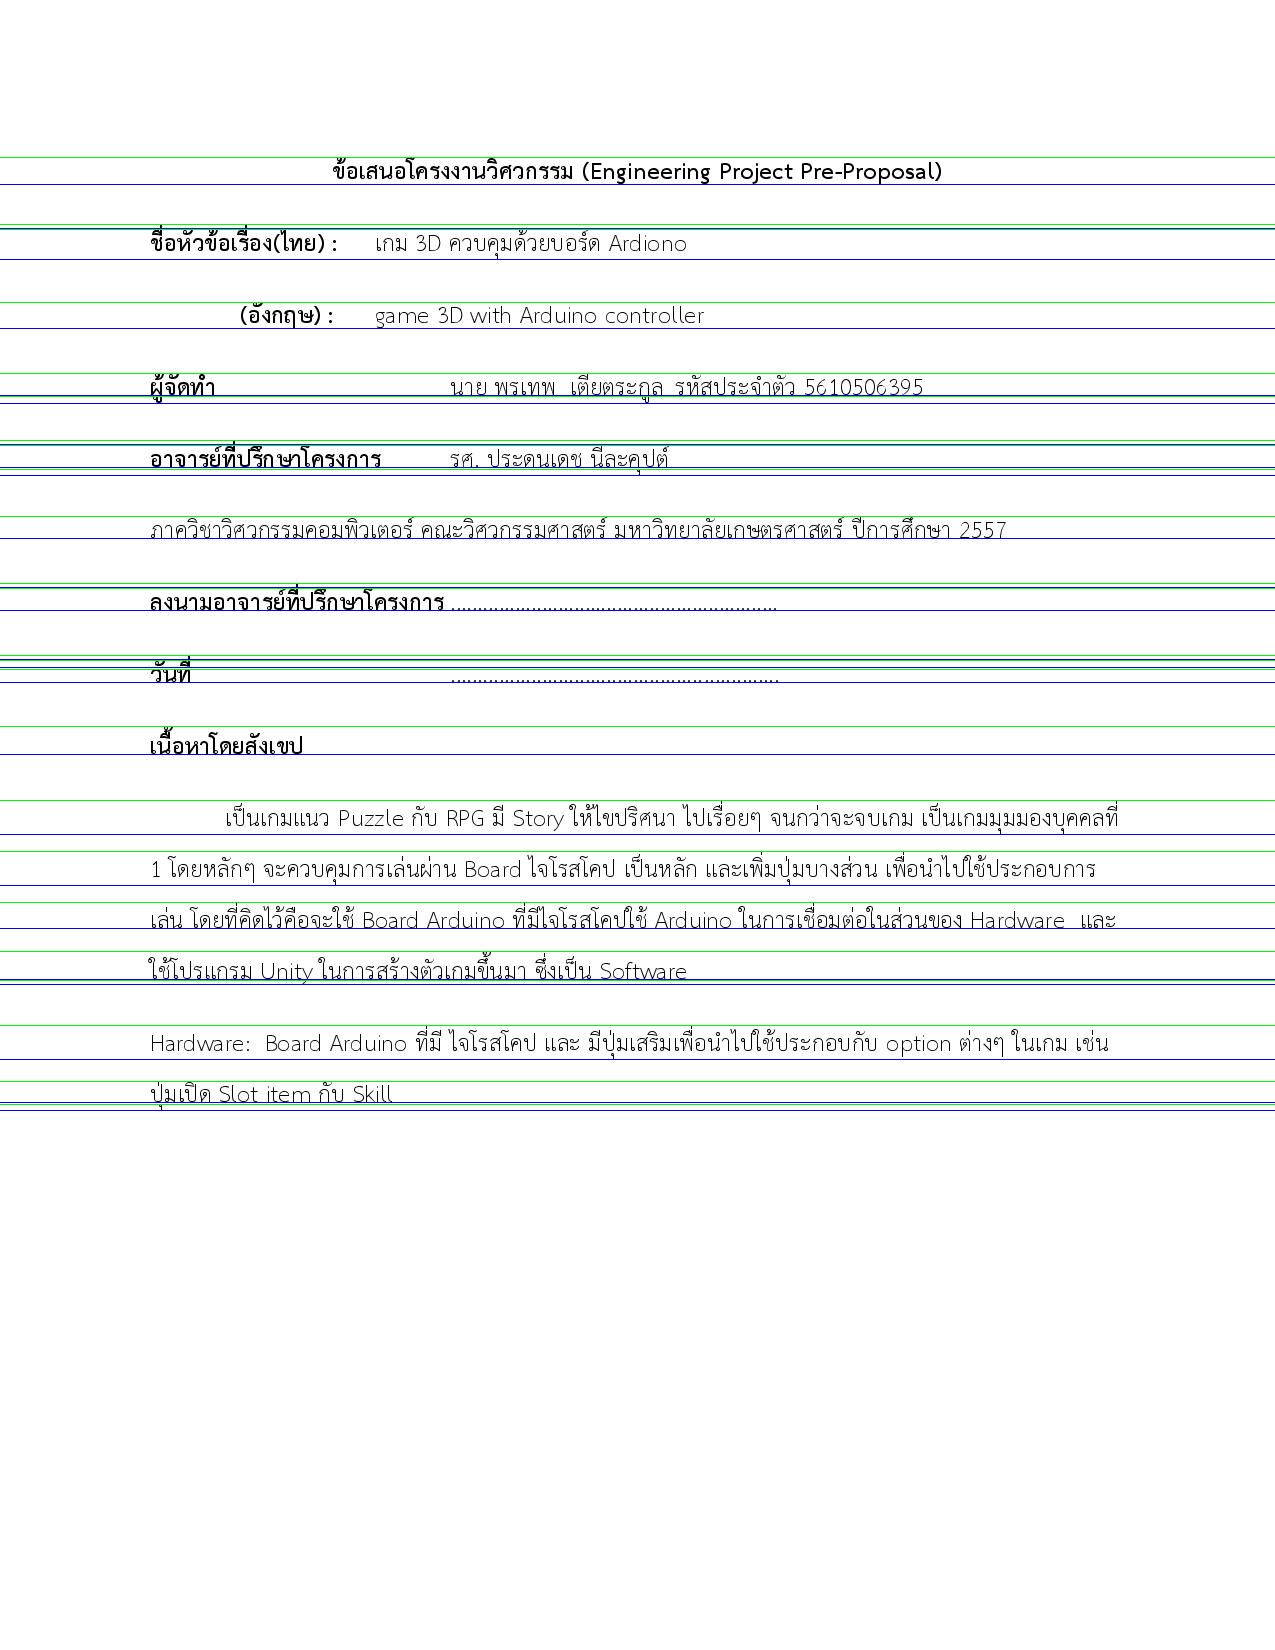
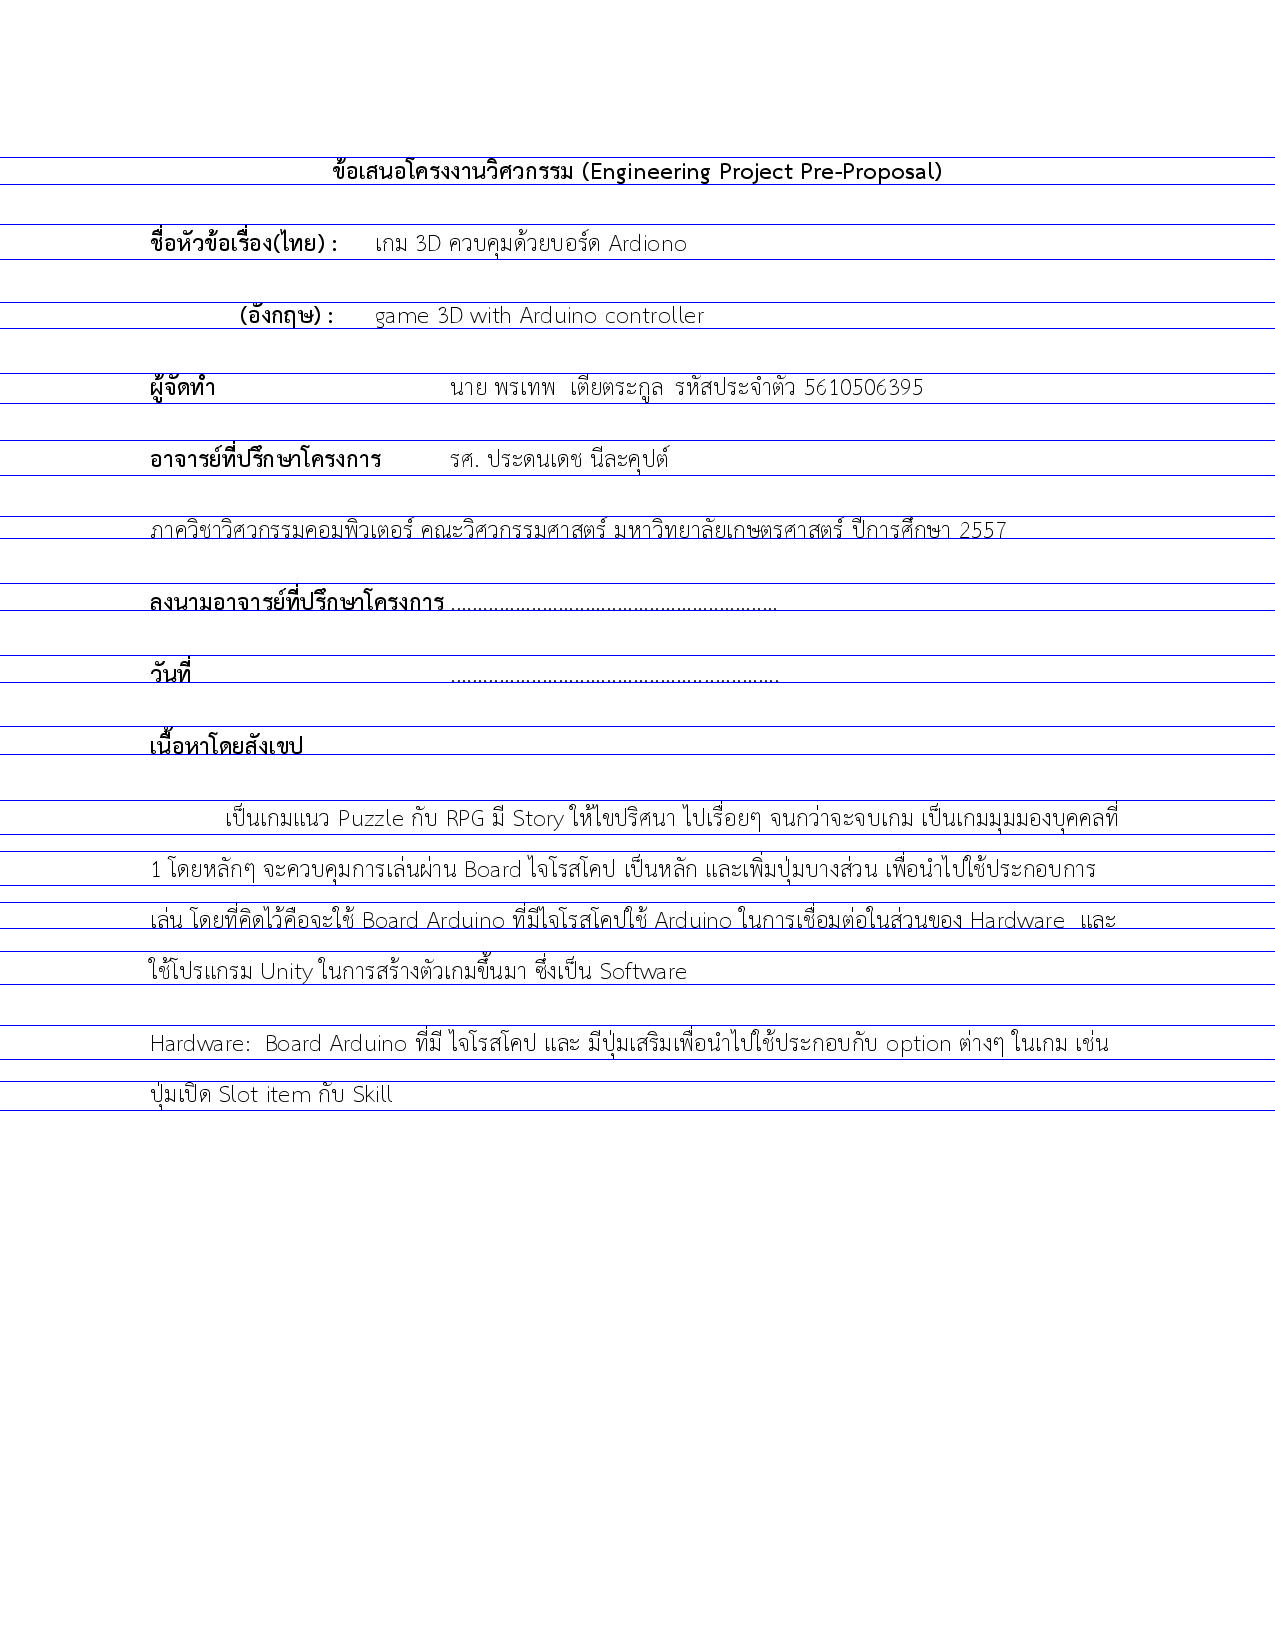
partition by line

diff --git a/segmentation.py b/segmentation.py
@@ -6,9 +6,7 @@ img = cv2.imread('testfile/testimage.jpg')
 ret,binimg = cv2.threshold(img,127,255,cv2.THRESH_BINARY) #turns image into binary
 height,width,channel = img.shape
 
-line_height_estimate = 60
-lines_begin = []
-lines_end = []
+lines = []
 
 blotcount = 0
 beginsignal = 1
@@ -18,19 +16,35 @@ for x in range(height):
         if binimg[x,y,0] == 0:
             blotcount += 1
     if blotcount > 0 and beginsignal == 1:
-        lines_begin.append(x)
+        lines.append(x)
         beginsignal = 0
     elif blotcount == 0 and beginsignal == 0:
-        lines_end.append(x)
+        lines.append(x)
         beginsignal = 1
     blotcount = 0
 
 
 #print(lines_begin[0])
+margin = 3
+linebefore = 0
+thisline = 0
 
-for x in lines_begin:
-    cv2.line(img,(0,x),(width,x),(0,250,0),1)
-for x in lines_end:
+filteredlines = []
+
+for x in lines:
+    if linebefore == 0 and thisline == 0:
+        thisline = x
+    elif thisline != 0 and linebefore == 0:
+        filteredlines.append(thisline)
+        linebefore = thisline
+        thisline = x
+    else:
+        if thisline - linebefore >= margin and x - thisline >= margin:
+            filteredlines.append(thisline)
+        linebefore = thisline
+        thisline = x
+filteredlines.append(thisline)
+for x in filteredlines:
     cv2.line(img,(0,x),(width,x),(250,0,0),1)
 
 
